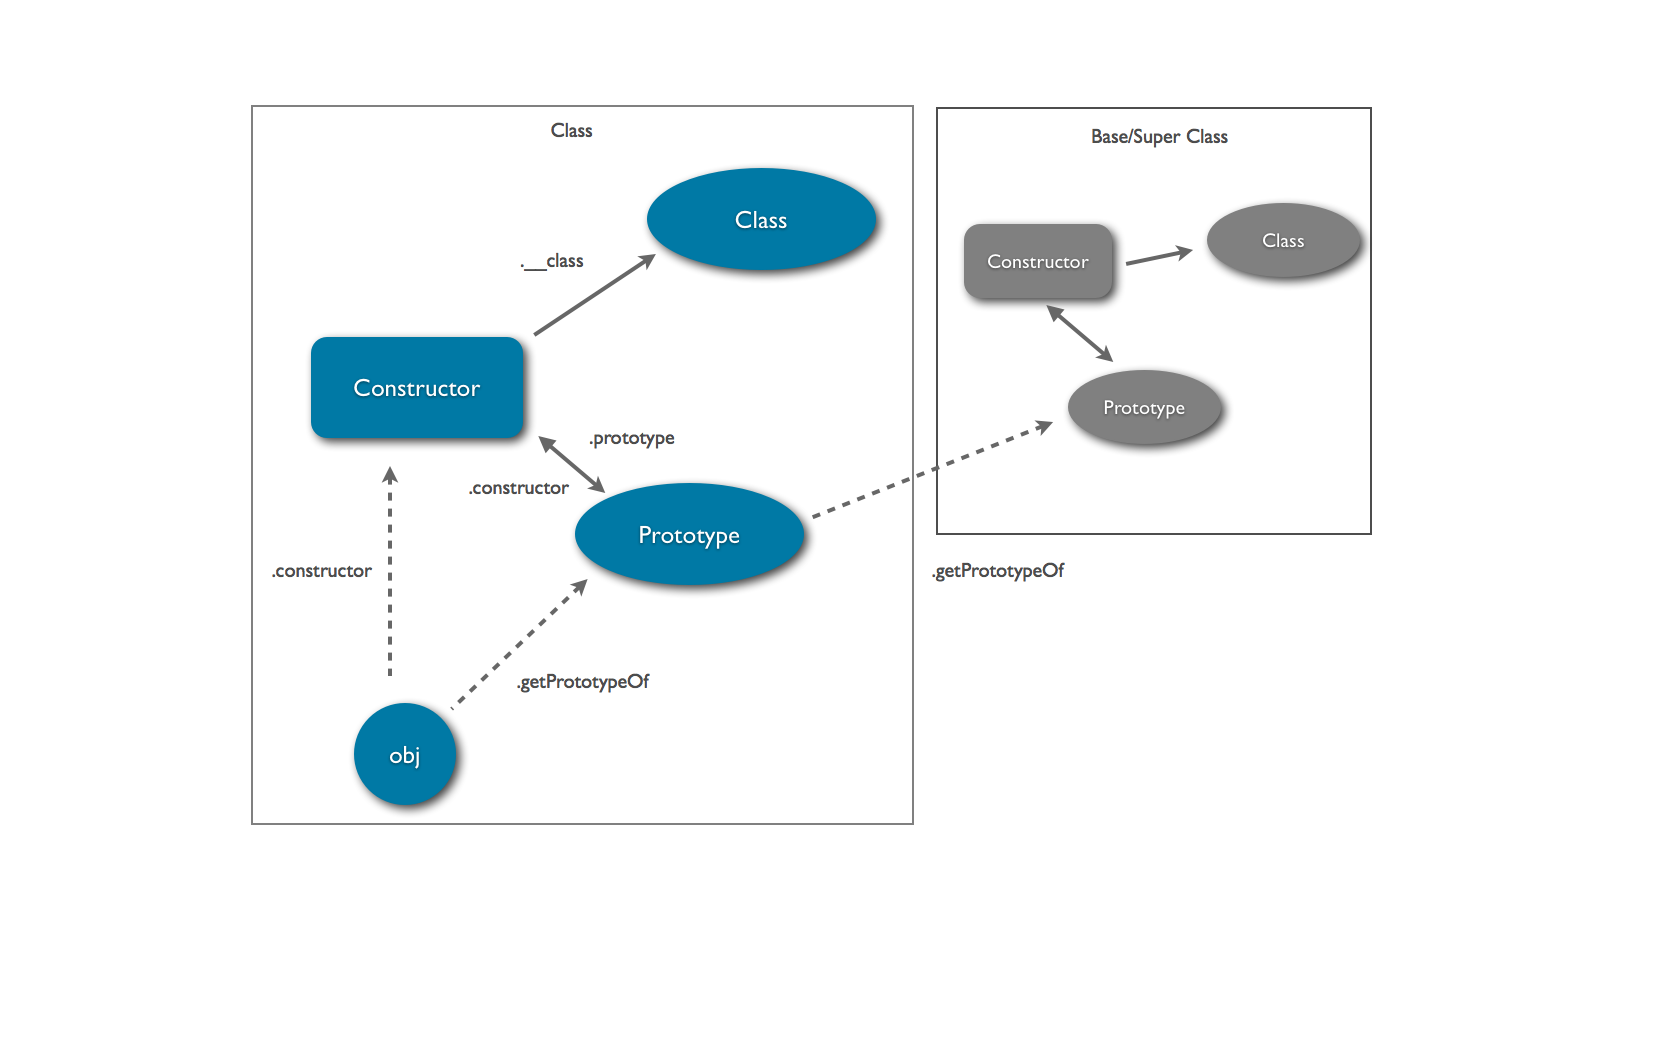
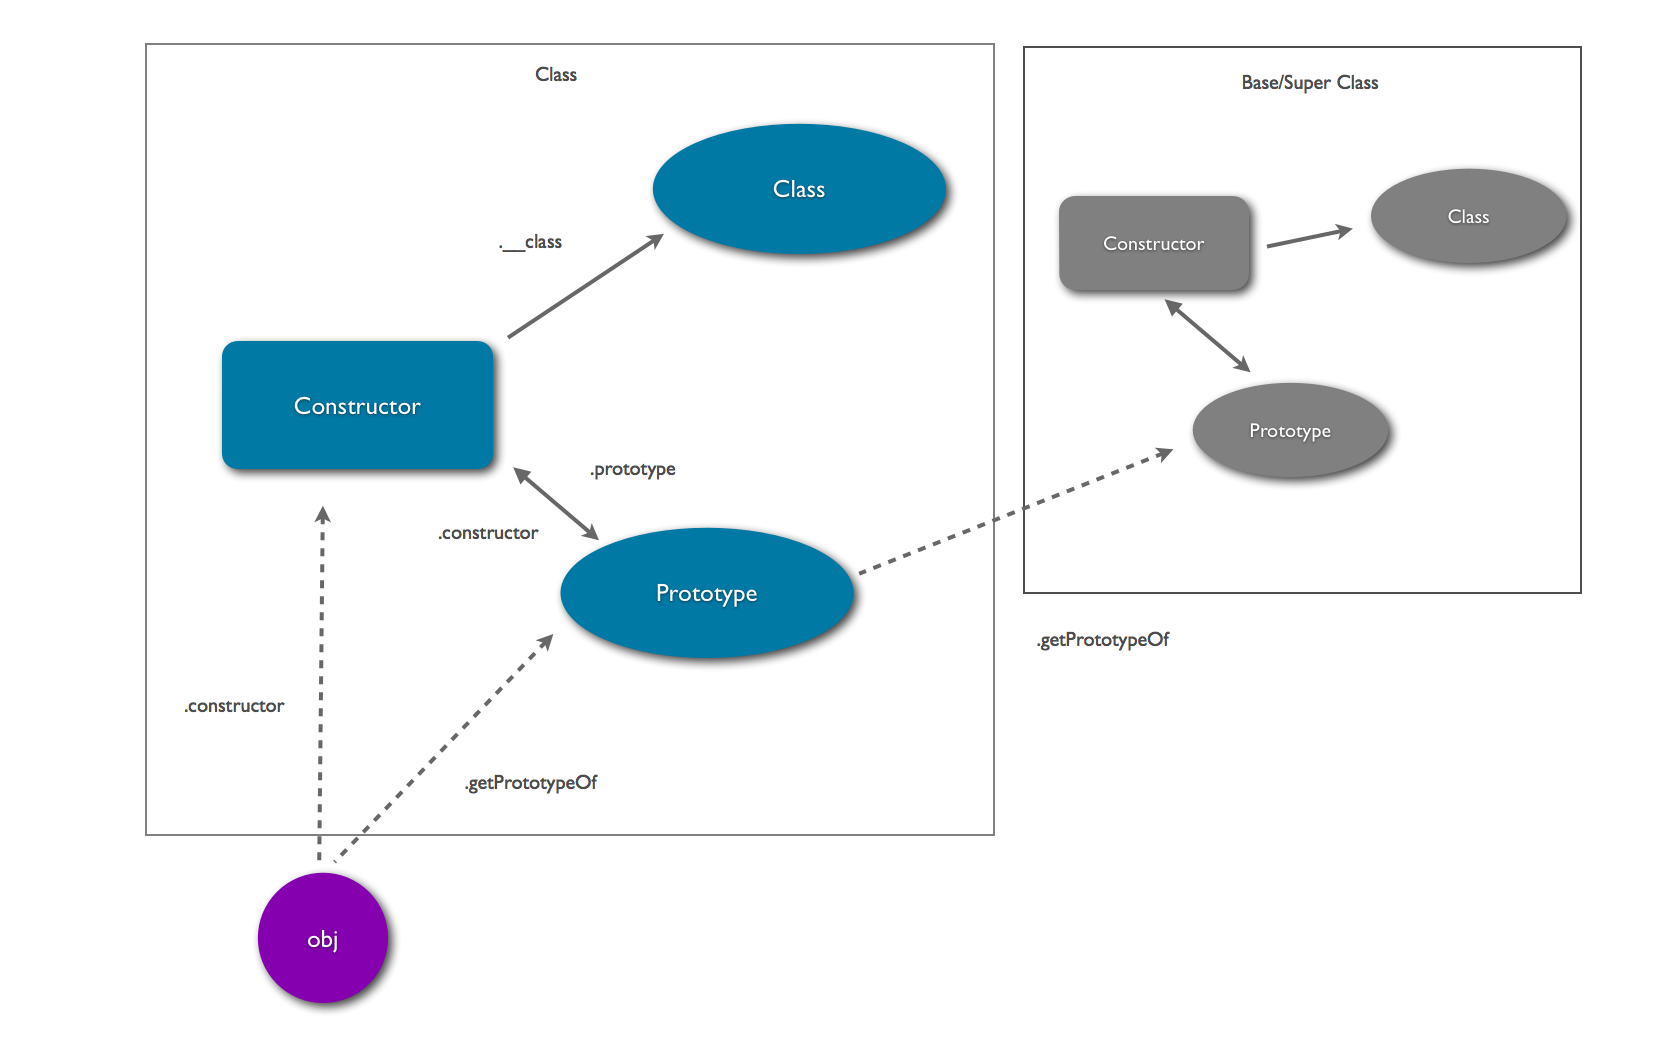
readme documentation adding tutorial

diff --git a/README.md b/README.md
@@ -20,8 +20,8 @@ var cls = require('simple-cls')
 var MyClass = cls.defineClass({
 	name : "MyClass",
 	//constructor code
-	construct : function(){
-		
+	construct : function(msg){
+		this.msg = msg;
 	}, 
 	//instance methods
 	methods: {  
@@ -31,15 +31,40 @@ var MyClass = cls.defineClass({
 	},
 	//instance variables
 	variables: {
-		bar : 1
+		bar : 1,
+		msg : null
 	},
 	// class level variables or methods
 	statics : {
 		
 	}
 });
-
 ```
+
+To instantiate an object and start using it  
+```javascript
+var obj = new MyClass("hello");
+obj.foo();
+console.log(obj.bar);
+```
+
+
+## Concept
+in node-cls, the class system is built upon a chain of triple objects, namely the object prototype, constructor function and a class object. As the diagram shows, instantiating a new js object will establish a relationship from the bottom up, starting at the object instance. Using javascript's built-in function we can obtain the prototype of that object.
+```javascript
+assert.ok(Object.getPrototypeOf(obj) === MyClass.prototype);)
+```
+The prototype object itself is an object instance of the superclass of MyClass. If no superclass is given, it is defaulted to `Object`. `MyClass` is an alias of the **Constructor** function for obj
+```javascript 
+assert.ok(obj.constructor === MyClass)
+``` 
+
+The **Class** object contains runtime information about the obj class and can be obtained via `__class` on the constructor or `.getClass()` methods 
+```javascript
+assert.ok(obj.constructor.__class === obj.getClass())
+```
+
+
 
 
 
